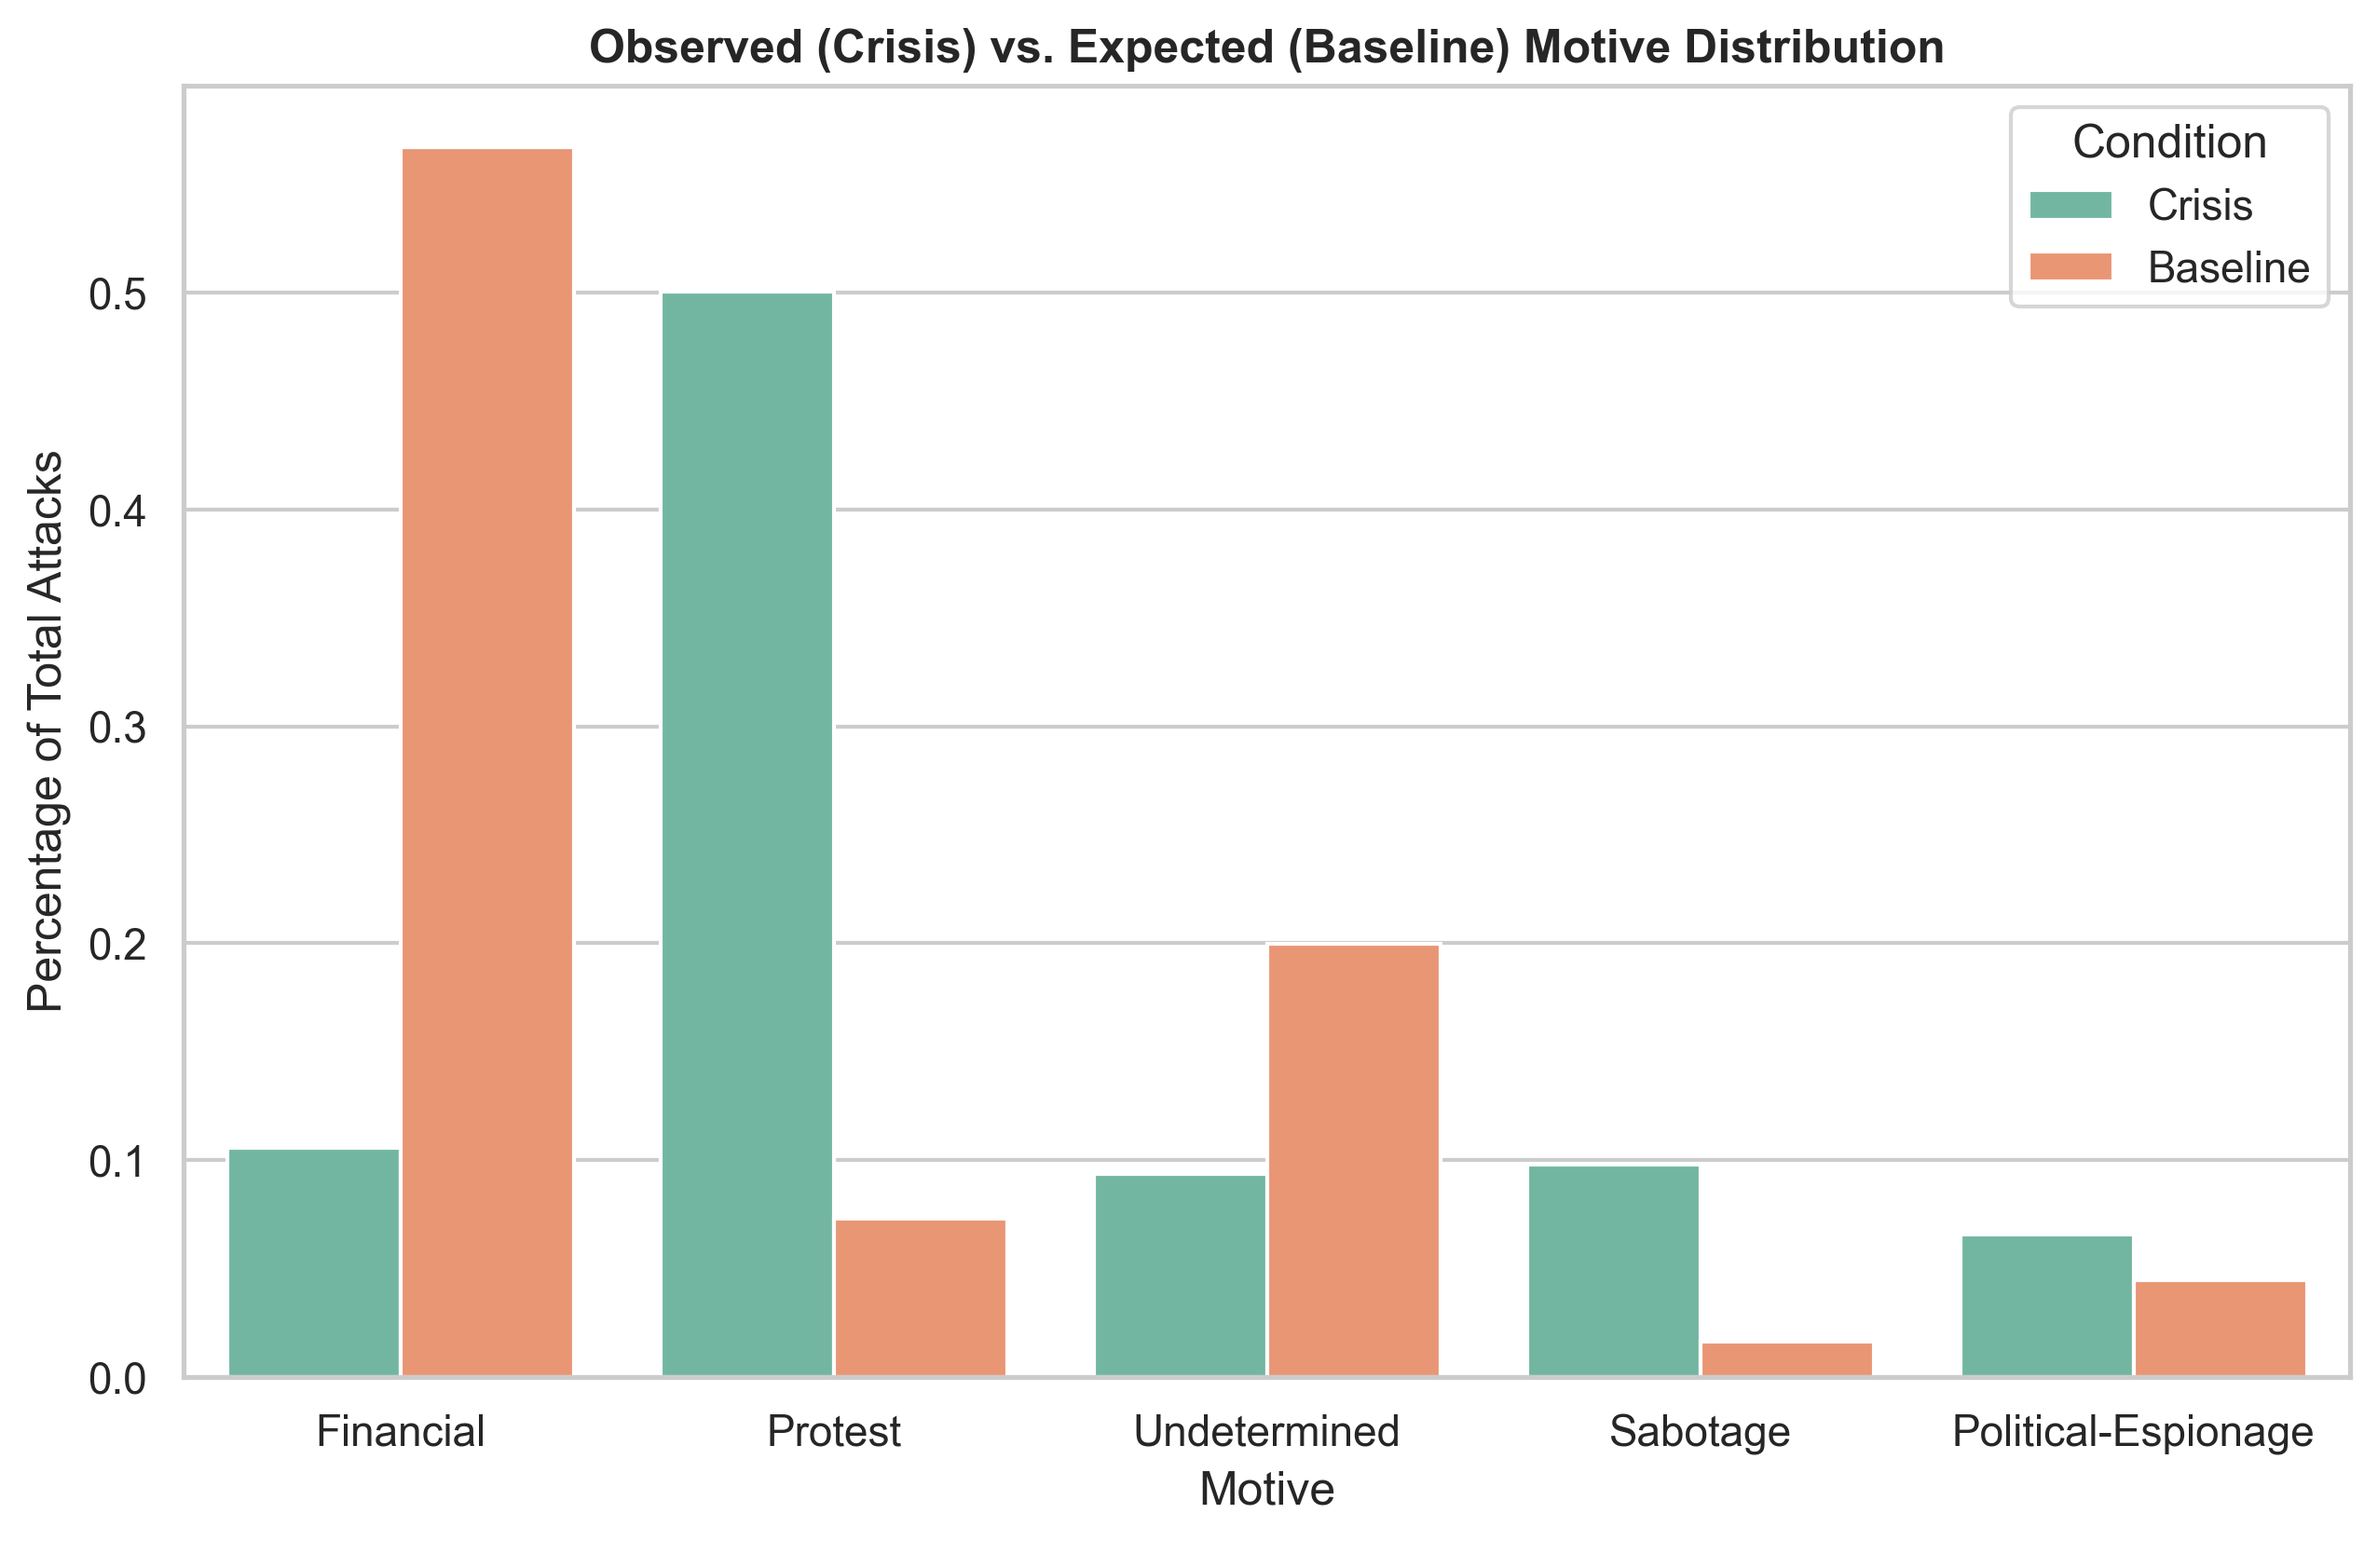
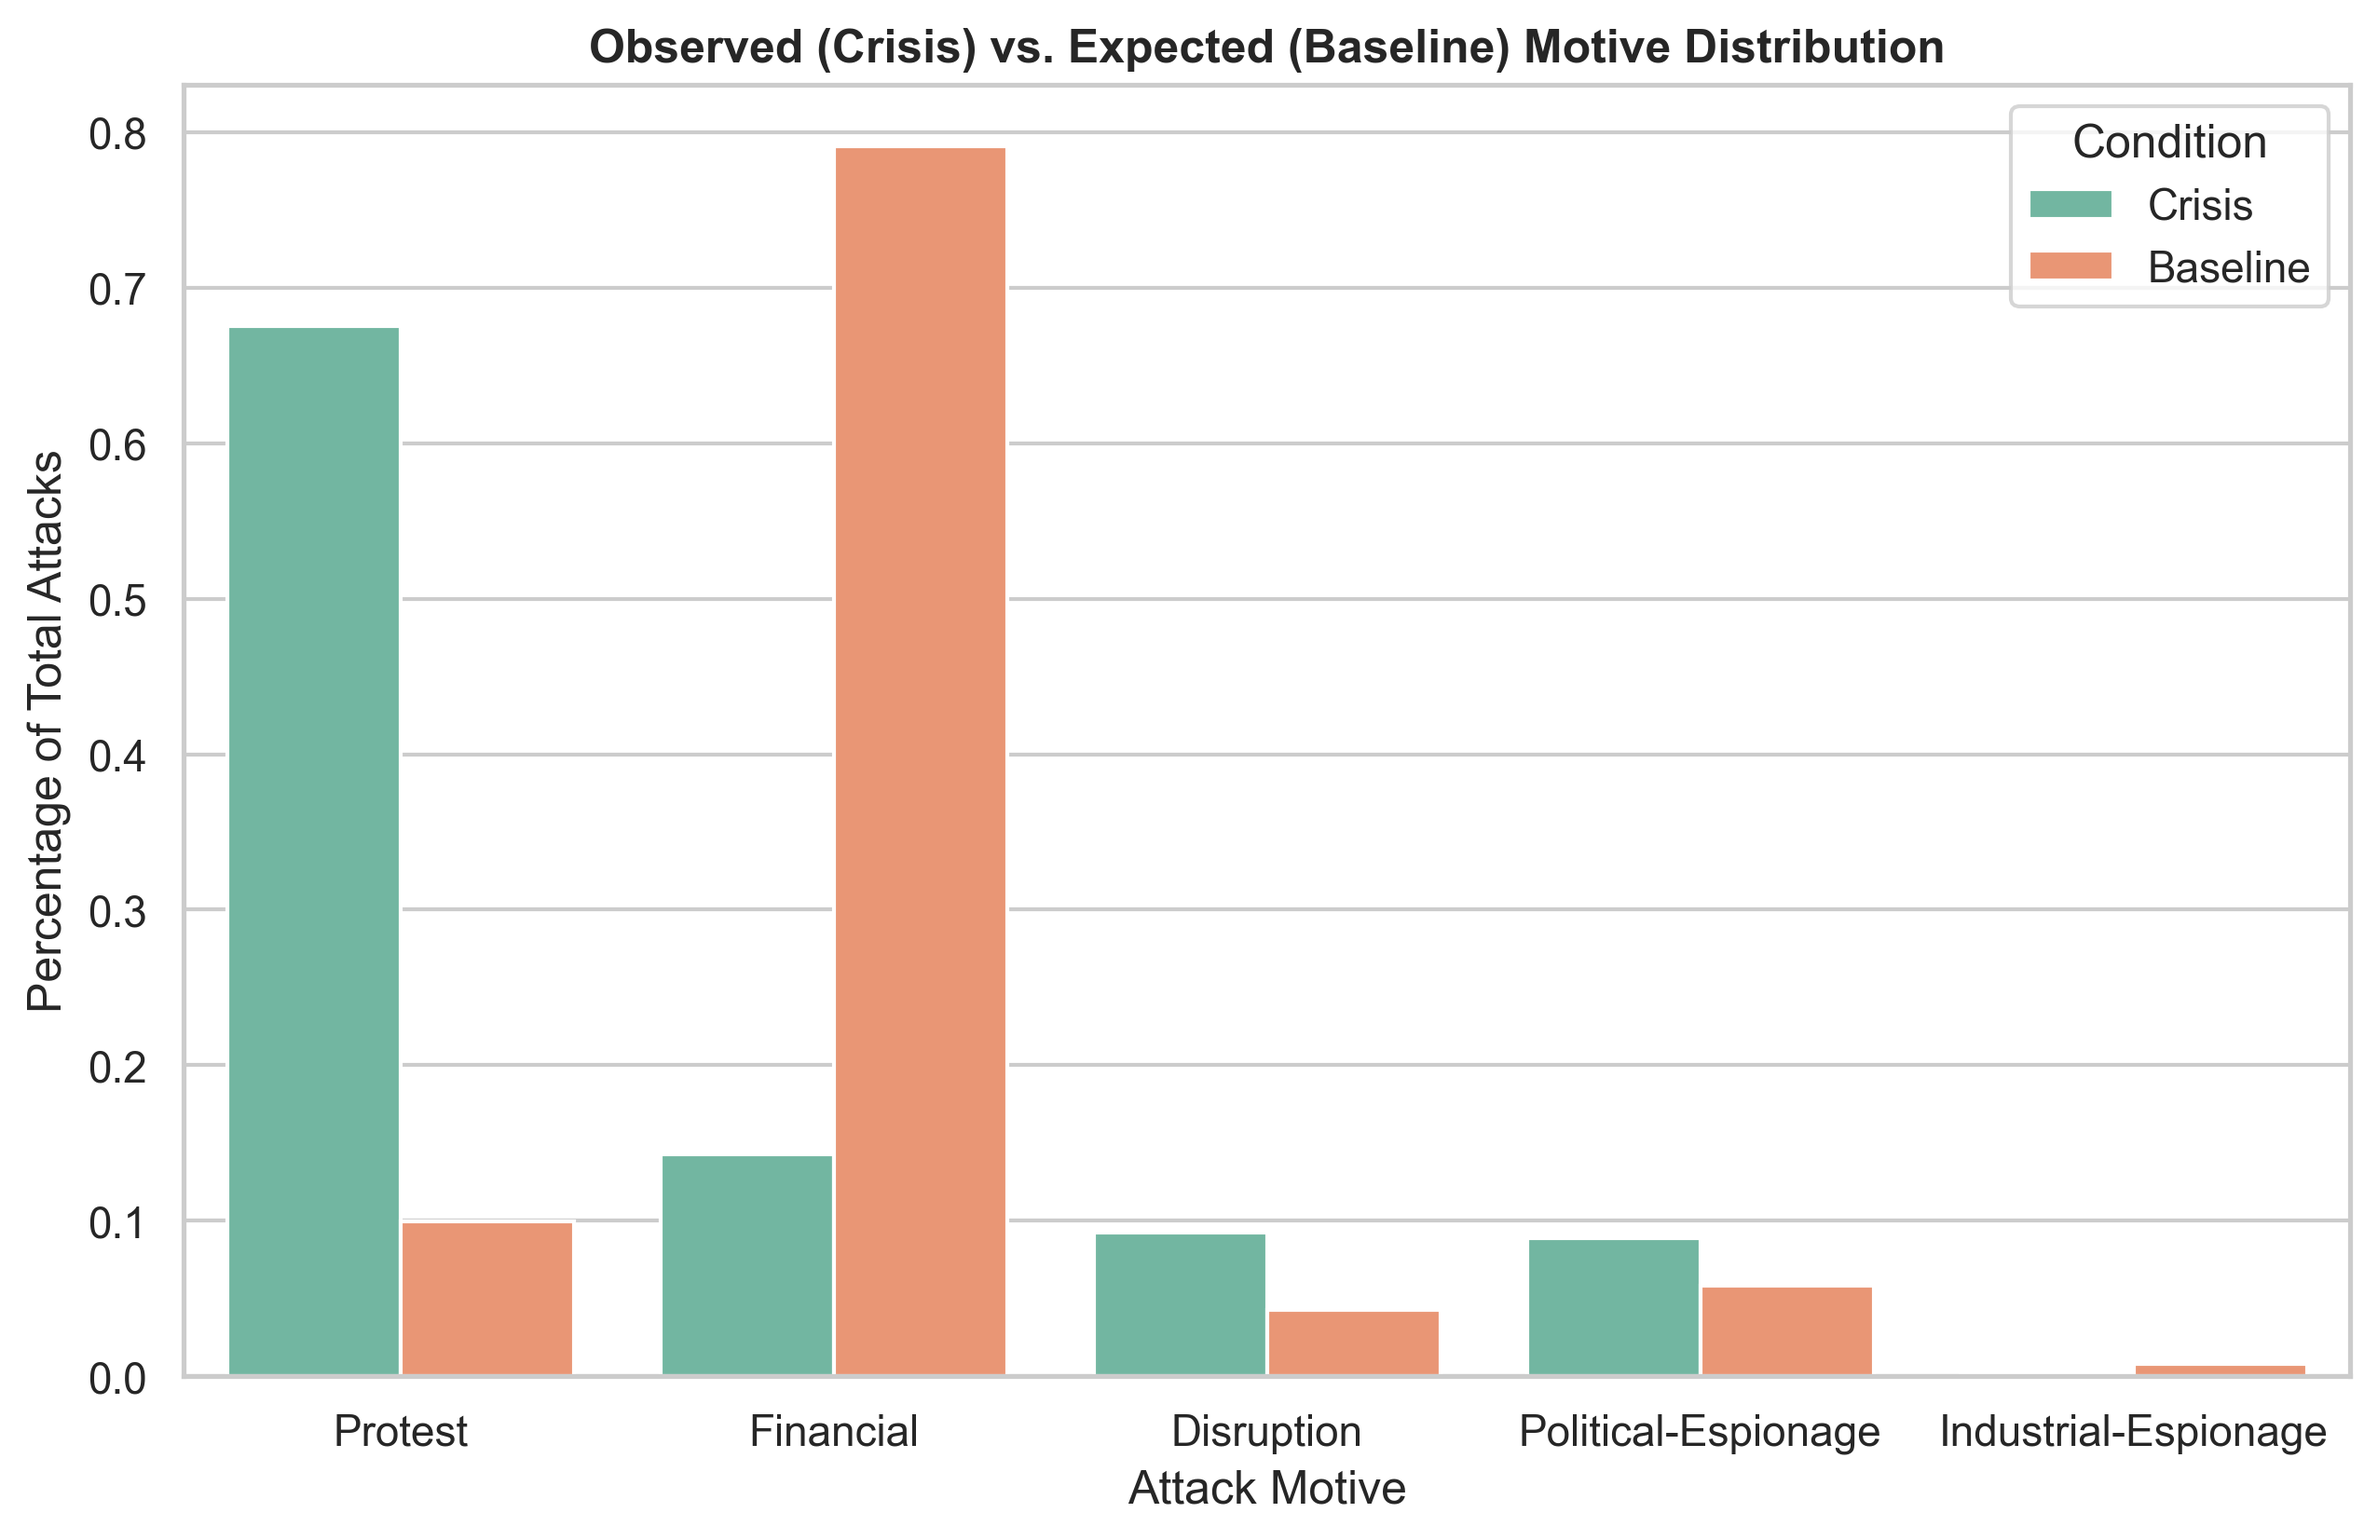
Fixed the underflowed P value problem on H2 and H3 by utilizing downsampling method

diff --git a/README.md b/README.md
@@ -78,6 +78,13 @@ The dataset generation (`scripts/final_data.py`) involves the following steps:
 * **Conclusion:** Sudden drops in political stability do not universally trigger an immediate surge in cyber protests. The high variance indicates that hacktivist responses are highly localized. A stability drop might cause a massive cyber reaction in one country, but zero response in another. 
 
 
+## Methodological Note: Downsampling & The "Large N Problem"
+
+Initial statistical tests (Hypothesis 2 and Hypothesis 3) on the complete dataset yielded a p-value of exactly `0.0`. This is a computational limitation (float underflow) caused by an "overpowered test," where massive sample sizes artificially inflate test statistics. To report mathematically valid p-values:
+
+* **Statistical Testing:** We applied **random downsampling (n=600)** exclusively for the calculations. This resolved the overpowered test issue and yielded accurate, computable scientific p-values.
+* **Visualization:** All charts and plots continue to use the **full dataset** to accurately represent the true, unmanipulated data distribution.
+
 
 ### Hypothesis 2: Observed vs. Expected Attack Motives (Chi-Square Statistic)
 
@@ -85,8 +92,8 @@ The dataset generation (`scripts/final_data.py`) involves the following steps:
 - **Hₐ:** The observed frequencies significantly deviate from the expected distribution (e.g., Financial motives appear more than expected).  
 - **Method:** Chi-Square Statistic to measure the discrepancy between actual crisis data and historical baseline data.
 - **Result:** **Highly Statistically Significant (Reject H₀)**
-* **Test Statistics:** Chi-Square Test | Chi-Square Statistic: `3081.9728` | Degrees of Freedom: `4` | P-Value: `0.0000e+00`
-* **Conclusion:** Severe economic crises (inflation > 10%) fundamentally shift hacker motivations. During normal conditions, threat actors prioritize **Financial** gain (**9,109** baseline attacks vs. **1,170** protest attacks). However, during an economic crisis, financial attacks plummet to just **148** incidents, while **Protest** attacks heavily dominate the landscape. During financial panic, hackers abandon monetary theft to weaponize the internet for protest and disruption.
+* **Test Statistics:** Chi-Square Test | Chi-Square Statistic: `105.2180` | Degrees of Freedom: `4` | P-Value: `7.6109e-22`
+* **Conclusion:** Severe economic crises (inflation > 10%) fundamentally shift hacker motivations. During normal conditions, threat actors prioritize **Financial** gain. However, during an economic crisis, financial attacks plummet to just **148** incidents, while **Protest** attacks heavily dominate the landscape. During financial panic, hackers abandon monetary theft to weaponize the internet for protest and disruption.
 
 
 
@@ -95,7 +102,7 @@ The dataset generation (`scripts/final_data.py`) involves the following steps:
 * **Hₐ:** The average wealth (GDP) of a target country differs significantly based on the attack motive.
 * **Method:** One-Way ANOVA (Analysis of Variance) to compare the mean GDP across the top three distinct attack motives, visualized using a log-scaled boxplot.
 * **Result:** **Highly Statistically Significant (Reject H₀)**
-* **Test Statistics:** One-Way ANOVA | F-Statistic: `1574.6477` | P-Value: `0.0000e+00`
+* **Test Statistics:** One-Way ANOVA | F-Statistic: `99.3725` | P-Value: `5.5887e-38`
 * **Conclusion:** There is a definitive link between the economic stature of a target nation and the motive of the cyber attack. Financial threat actors disproportionately target wealthier nations (higher GDP), likely seeking higher "return on investment." Conversely, Protest and Political-Espionage attacks are distributed more broadly across lower-GDP nations, indicating that these attacks are driven by geopolitical friction rather than purely economic gain.
 
 
